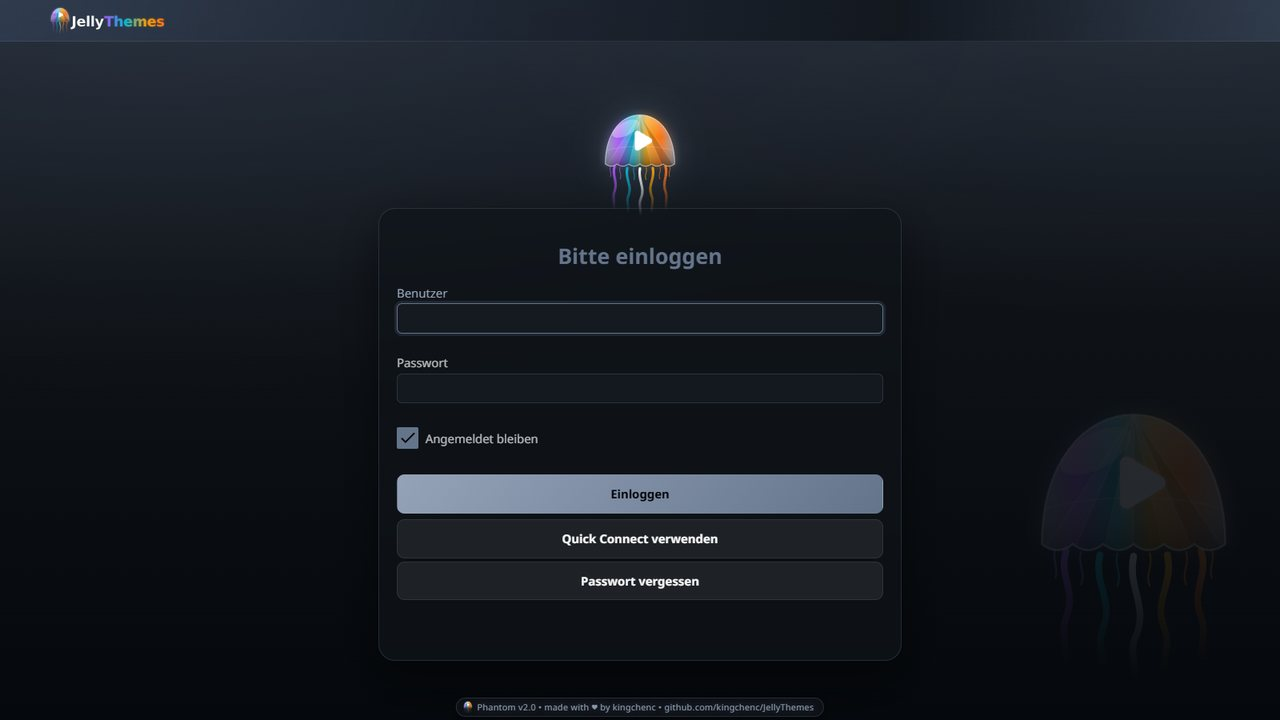
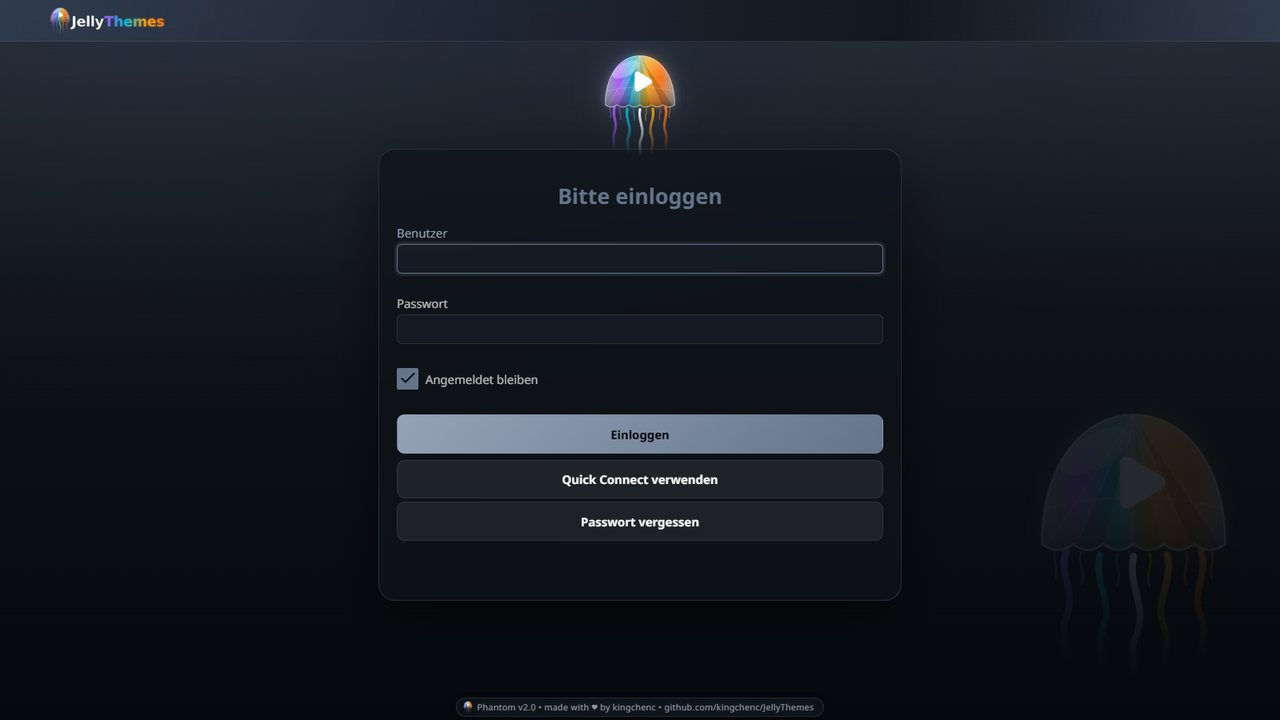
Login page: jellyfish and card higher
Jellyfin keeps room above the login page for its old header; the top
bar has its own space, so the card and the jellyfish move up (about 8%
of the screen on a PC). Login pictures in the galleries updated.

diff --git a/Themes/Ember/Ember.css b/Themes/Ember/Ember.css
@@ -353,10 +353,10 @@ calc(100em * (1 - var(--jt-badge-corner)))}
 .osdTitle,.osdTextContainer{color: var(--jt-text)}
 .upNextDialog-countdownText{color: var(--jt-accent-2)}
 .playstatebutton-icon-played,.ratingbutton-icon-withrating{color: var(--jt-accent-2)}
-#loginPage{background-image: var(--jt-login-bg);background-size: cover;background-position: center}
-#loginPage > .padded-left{position: relative;box-sizing: border-box;width: 100%;max-width: 44em;margin: calc(2em + 7.5em * var(--jt-mascot-login)) auto 2em;padding: 1.5em 1.5em 2em !important;background: rgba(var(--jt-bg-2-rgb), 0.72);-webkit-backdrop-filter: var(--jt-header-backdrop);backdrop-filter: var(--jt-header-backdrop);border: 1px solid var(--jt-accent-line);border-radius: 1.4em;box-shadow: 0 20px 60px rgba(0, 0, 0, 0.5)}
+#loginPage{padding-top: 0.5em !important;background-image: var(--jt-login-bg);background-size: cover;background-position: center}
+#loginPage > .padded-left{position: relative;box-sizing: border-box;width: 100%;max-width: 44em;margin: calc(1em + 7.5em * var(--jt-mascot-login)) auto 2em;padding: 1.5em 1.5em 2em !important;background: rgba(var(--jt-bg-2-rgb), 0.72);-webkit-backdrop-filter: var(--jt-header-backdrop);backdrop-filter: var(--jt-header-backdrop);border: 1px solid var(--jt-accent-line);border-radius: 1.4em;box-shadow: 0 20px 60px rgba(0, 0, 0, 0.5)}
 #loginPage > .padded-left::before{content: "";position: absolute;left: 50%;bottom: 100%;width: 7em;height: calc(9em * var(--jt-mascot-login));margin-left: -3.5em;margin-bottom: -0.6em;background: var(--jt-mascot) center bottom / contain no-repeat;filter: drop-shadow(0 0 18px rgba(var(--jt-accent-rgb), 0.45));pointer-events: none}
-@media all and (max-width: 40em){#loginPage > .padded-left{margin-top: calc(0.4em + 7.2em * var(--jt-mascot-login))}
+@media all and (max-width: 40em){#loginPage > .padded-left{margin-top: calc(1.2em + 7.2em * var(--jt-mascot-login))}
 }
 .docspinner.mdlSpinnerActive{width: 11vh;height: 14vh;margin-left: -5.5vh;margin-top: -7vh;background: var(--jt-mascot) center / contain no-repeat;filter: drop-shadow(0 0 22px rgba(var(--jt-accent-rgb), 0.6));-webkit-animation: jt-float 1.6s ease-in-out infinite;animation: jt-float 1.6s ease-in-out infinite}
 .docspinner.mdlSpinnerActive > .mdl-spinner__layer{display: none}

diff --git a/Themes/Nebula/Nebula.css b/Themes/Nebula/Nebula.css
@@ -353,10 +353,10 @@ calc(100em * (1 - var(--jt-badge-corner)))}
 .osdTitle,.osdTextContainer{color: var(--jt-text)}
 .upNextDialog-countdownText{color: var(--jt-accent-2)}
 .playstatebutton-icon-played,.ratingbutton-icon-withrating{color: var(--jt-accent-2)}
-#loginPage{background-image: var(--jt-login-bg);background-size: cover;background-position: center}
-#loginPage > .padded-left{position: relative;box-sizing: border-box;width: 100%;max-width: 44em;margin: calc(2em + 7.5em * var(--jt-mascot-login)) auto 2em;padding: 1.5em 1.5em 2em !important;background: rgba(var(--jt-bg-2-rgb), 0.72);-webkit-backdrop-filter: var(--jt-header-backdrop);backdrop-filter: var(--jt-header-backdrop);border: 1px solid var(--jt-accent-line);border-radius: 1.4em;box-shadow: 0 20px 60px rgba(0, 0, 0, 0.5)}
+#loginPage{padding-top: 0.5em !important;background-image: var(--jt-login-bg);background-size: cover;background-position: center}
+#loginPage > .padded-left{position: relative;box-sizing: border-box;width: 100%;max-width: 44em;margin: calc(1em + 7.5em * var(--jt-mascot-login)) auto 2em;padding: 1.5em 1.5em 2em !important;background: rgba(var(--jt-bg-2-rgb), 0.72);-webkit-backdrop-filter: var(--jt-header-backdrop);backdrop-filter: var(--jt-header-backdrop);border: 1px solid var(--jt-accent-line);border-radius: 1.4em;box-shadow: 0 20px 60px rgba(0, 0, 0, 0.5)}
 #loginPage > .padded-left::before{content: "";position: absolute;left: 50%;bottom: 100%;width: 7em;height: calc(9em * var(--jt-mascot-login));margin-left: -3.5em;margin-bottom: -0.6em;background: var(--jt-mascot) center bottom / contain no-repeat;filter: drop-shadow(0 0 18px rgba(var(--jt-accent-rgb), 0.45));pointer-events: none}
-@media all and (max-width: 40em){#loginPage > .padded-left{margin-top: calc(0.4em + 7.2em * var(--jt-mascot-login))}
+@media all and (max-width: 40em){#loginPage > .padded-left{margin-top: calc(1.2em + 7.2em * var(--jt-mascot-login))}
 }
 .docspinner.mdlSpinnerActive{width: 11vh;height: 14vh;margin-left: -5.5vh;margin-top: -7vh;background: var(--jt-mascot) center / contain no-repeat;filter: drop-shadow(0 0 22px rgba(var(--jt-accent-rgb), 0.6));-webkit-animation: jt-float 1.6s ease-in-out infinite;animation: jt-float 1.6s ease-in-out infinite}
 .docspinner.mdlSpinnerActive > .mdl-spinner__layer{display: none}

diff --git a/Themes/Obsidian/Obsidian.css b/Themes/Obsidian/Obsidian.css
@@ -353,10 +353,10 @@ calc(100em * (1 - var(--jt-badge-corner)))}
 .osdTitle,.osdTextContainer{color: var(--jt-text)}
 .upNextDialog-countdownText{color: var(--jt-accent-2)}
 .playstatebutton-icon-played,.ratingbutton-icon-withrating{color: var(--jt-accent-2)}
-#loginPage{background-image: var(--jt-login-bg);background-size: cover;background-position: center}
-#loginPage > .padded-left{position: relative;box-sizing: border-box;width: 100%;max-width: 44em;margin: calc(2em + 7.5em * var(--jt-mascot-login)) auto 2em;padding: 1.5em 1.5em 2em !important;background: rgba(var(--jt-bg-2-rgb), 0.72);-webkit-backdrop-filter: var(--jt-header-backdrop);backdrop-filter: var(--jt-header-backdrop);border: 1px solid var(--jt-accent-line);border-radius: 1.4em;box-shadow: 0 20px 60px rgba(0, 0, 0, 0.5)}
+#loginPage{padding-top: 0.5em !important;background-image: var(--jt-login-bg);background-size: cover;background-position: center}
+#loginPage > .padded-left{position: relative;box-sizing: border-box;width: 100%;max-width: 44em;margin: calc(1em + 7.5em * var(--jt-mascot-login)) auto 2em;padding: 1.5em 1.5em 2em !important;background: rgba(var(--jt-bg-2-rgb), 0.72);-webkit-backdrop-filter: var(--jt-header-backdrop);backdrop-filter: var(--jt-header-backdrop);border: 1px solid var(--jt-accent-line);border-radius: 1.4em;box-shadow: 0 20px 60px rgba(0, 0, 0, 0.5)}
 #loginPage > .padded-left::before{content: "";position: absolute;left: 50%;bottom: 100%;width: 7em;height: calc(9em * var(--jt-mascot-login));margin-left: -3.5em;margin-bottom: -0.6em;background: var(--jt-mascot) center bottom / contain no-repeat;filter: drop-shadow(0 0 18px rgba(var(--jt-accent-rgb), 0.45));pointer-events: none}
-@media all and (max-width: 40em){#loginPage > .padded-left{margin-top: calc(0.4em + 7.2em * var(--jt-mascot-login))}
+@media all and (max-width: 40em){#loginPage > .padded-left{margin-top: calc(1.2em + 7.2em * var(--jt-mascot-login))}
 }
 .docspinner.mdlSpinnerActive{width: 11vh;height: 14vh;margin-left: -5.5vh;margin-top: -7vh;background: var(--jt-mascot) center / contain no-repeat;filter: drop-shadow(0 0 22px rgba(var(--jt-accent-rgb), 0.6));-webkit-animation: jt-float 1.6s ease-in-out infinite;animation: jt-float 1.6s ease-in-out infinite}
 .docspinner.mdlSpinnerActive > .mdl-spinner__layer{display: none}

diff --git a/Themes/Phantom/Phantom.css b/Themes/Phantom/Phantom.css
@@ -353,10 +353,10 @@ calc(100em * (1 - var(--jt-badge-corner)))}
 .osdTitle,.osdTextContainer{color: var(--jt-text)}
 .upNextDialog-countdownText{color: var(--jt-accent-2)}
 .playstatebutton-icon-played,.ratingbutton-icon-withrating{color: var(--jt-accent-2)}
-#loginPage{background-image: var(--jt-login-bg);background-size: cover;background-position: center}
-#loginPage > .padded-left{position: relative;box-sizing: border-box;width: 100%;max-width: 44em;margin: calc(2em + 7.5em * var(--jt-mascot-login)) auto 2em;padding: 1.5em 1.5em 2em !important;background: rgba(var(--jt-bg-2-rgb), 0.72);-webkit-backdrop-filter: var(--jt-header-backdrop);backdrop-filter: var(--jt-header-backdrop);border: 1px solid var(--jt-accent-line);border-radius: 1.4em;box-shadow: 0 20px 60px rgba(0, 0, 0, 0.5)}
+#loginPage{padding-top: 0.5em !important;background-image: var(--jt-login-bg);background-size: cover;background-position: center}
+#loginPage > .padded-left{position: relative;box-sizing: border-box;width: 100%;max-width: 44em;margin: calc(1em + 7.5em * var(--jt-mascot-login)) auto 2em;padding: 1.5em 1.5em 2em !important;background: rgba(var(--jt-bg-2-rgb), 0.72);-webkit-backdrop-filter: var(--jt-header-backdrop);backdrop-filter: var(--jt-header-backdrop);border: 1px solid var(--jt-accent-line);border-radius: 1.4em;box-shadow: 0 20px 60px rgba(0, 0, 0, 0.5)}
 #loginPage > .padded-left::before{content: "";position: absolute;left: 50%;bottom: 100%;width: 7em;height: calc(9em * var(--jt-mascot-login));margin-left: -3.5em;margin-bottom: -0.6em;background: var(--jt-mascot) center bottom / contain no-repeat;filter: drop-shadow(0 0 18px rgba(var(--jt-accent-rgb), 0.45));pointer-events: none}
-@media all and (max-width: 40em){#loginPage > .padded-left{margin-top: calc(0.4em + 7.2em * var(--jt-mascot-login))}
+@media all and (max-width: 40em){#loginPage > .padded-left{margin-top: calc(1.2em + 7.2em * var(--jt-mascot-login))}
 }
 .docspinner.mdlSpinnerActive{width: 11vh;height: 14vh;margin-left: -5.5vh;margin-top: -7vh;background: var(--jt-mascot) center / contain no-repeat;filter: drop-shadow(0 0 22px rgba(var(--jt-accent-rgb), 0.6));-webkit-animation: jt-float 1.6s ease-in-out infinite;animation: jt-float 1.6s ease-in-out infinite}
 .docspinner.mdlSpinnerActive > .mdl-spinner__layer{display: none}

diff --git a/Themes/Solaris/Solaris.css b/Themes/Solaris/Solaris.css
@@ -353,10 +353,10 @@ calc(100em * (1 - var(--jt-badge-corner)))}
 .osdTitle,.osdTextContainer{color: var(--jt-text)}
 .upNextDialog-countdownText{color: var(--jt-accent-2)}
 .playstatebutton-icon-played,.ratingbutton-icon-withrating{color: var(--jt-accent-2)}
-#loginPage{background-image: var(--jt-login-bg);background-size: cover;background-position: center}
-#loginPage > .padded-left{position: relative;box-sizing: border-box;width: 100%;max-width: 44em;margin: calc(2em + 7.5em * var(--jt-mascot-login)) auto 2em;padding: 1.5em 1.5em 2em !important;background: rgba(var(--jt-bg-2-rgb), 0.72);-webkit-backdrop-filter: var(--jt-header-backdrop);backdrop-filter: var(--jt-header-backdrop);border: 1px solid var(--jt-accent-line);border-radius: 1.4em;box-shadow: 0 20px 60px rgba(0, 0, 0, 0.5)}
+#loginPage{padding-top: 0.5em !important;background-image: var(--jt-login-bg);background-size: cover;background-position: center}
+#loginPage > .padded-left{position: relative;box-sizing: border-box;width: 100%;max-width: 44em;margin: calc(1em + 7.5em * var(--jt-mascot-login)) auto 2em;padding: 1.5em 1.5em 2em !important;background: rgba(var(--jt-bg-2-rgb), 0.72);-webkit-backdrop-filter: var(--jt-header-backdrop);backdrop-filter: var(--jt-header-backdrop);border: 1px solid var(--jt-accent-line);border-radius: 1.4em;box-shadow: 0 20px 60px rgba(0, 0, 0, 0.5)}
 #loginPage > .padded-left::before{content: "";position: absolute;left: 50%;bottom: 100%;width: 7em;height: calc(9em * var(--jt-mascot-login));margin-left: -3.5em;margin-bottom: -0.6em;background: var(--jt-mascot) center bottom / contain no-repeat;filter: drop-shadow(0 0 18px rgba(var(--jt-accent-rgb), 0.45));pointer-events: none}
-@media all and (max-width: 40em){#loginPage > .padded-left{margin-top: calc(0.4em + 7.2em * var(--jt-mascot-login))}
+@media all and (max-width: 40em){#loginPage > .padded-left{margin-top: calc(1.2em + 7.2em * var(--jt-mascot-login))}
 }
 .docspinner.mdlSpinnerActive{width: 11vh;height: 14vh;margin-left: -5.5vh;margin-top: -7vh;background: var(--jt-mascot) center / contain no-repeat;filter: drop-shadow(0 0 22px rgba(var(--jt-accent-rgb), 0.6));-webkit-animation: jt-float 1.6s ease-in-out infinite;animation: jt-float 1.6s ease-in-out infinite}
 .docspinner.mdlSpinnerActive > .mdl-spinner__layer{display: none}

diff --git a/Themes/Void/Void.css b/Themes/Void/Void.css
@@ -353,10 +353,10 @@ calc(100em * (1 - var(--jt-badge-corner)))}
 .osdTitle,.osdTextContainer{color: var(--jt-text)}
 .upNextDialog-countdownText{color: var(--jt-accent-2)}
 .playstatebutton-icon-played,.ratingbutton-icon-withrating{color: var(--jt-accent-2)}
-#loginPage{background-image: var(--jt-login-bg);background-size: cover;background-position: center}
-#loginPage > .padded-left{position: relative;box-sizing: border-box;width: 100%;max-width: 44em;margin: calc(2em + 7.5em * var(--jt-mascot-login)) auto 2em;padding: 1.5em 1.5em 2em !important;background: rgba(var(--jt-bg-2-rgb), 0.72);-webkit-backdrop-filter: var(--jt-header-backdrop);backdrop-filter: var(--jt-header-backdrop);border: 1px solid var(--jt-accent-line);border-radius: 1.4em;box-shadow: 0 20px 60px rgba(0, 0, 0, 0.5)}
+#loginPage{padding-top: 0.5em !important;background-image: var(--jt-login-bg);background-size: cover;background-position: center}
+#loginPage > .padded-left{position: relative;box-sizing: border-box;width: 100%;max-width: 44em;margin: calc(1em + 7.5em * var(--jt-mascot-login)) auto 2em;padding: 1.5em 1.5em 2em !important;background: rgba(var(--jt-bg-2-rgb), 0.72);-webkit-backdrop-filter: var(--jt-header-backdrop);backdrop-filter: var(--jt-header-backdrop);border: 1px solid var(--jt-accent-line);border-radius: 1.4em;box-shadow: 0 20px 60px rgba(0, 0, 0, 0.5)}
 #loginPage > .padded-left::before{content: "";position: absolute;left: 50%;bottom: 100%;width: 7em;height: calc(9em * var(--jt-mascot-login));margin-left: -3.5em;margin-bottom: -0.6em;background: var(--jt-mascot) center bottom / contain no-repeat;filter: drop-shadow(0 0 18px rgba(var(--jt-accent-rgb), 0.45));pointer-events: none}
-@media all and (max-width: 40em){#loginPage > .padded-left{margin-top: calc(0.4em + 7.2em * var(--jt-mascot-login))}
+@media all and (max-width: 40em){#loginPage > .padded-left{margin-top: calc(1.2em + 7.2em * var(--jt-mascot-login))}
 }
 .docspinner.mdlSpinnerActive{width: 11vh;height: 14vh;margin-left: -5.5vh;margin-top: -7vh;background: var(--jt-mascot) center / contain no-repeat;filter: drop-shadow(0 0 22px rgba(var(--jt-accent-rgb), 0.6));-webkit-animation: jt-float 1.6s ease-in-out infinite;animation: jt-float 1.6s ease-in-out infinite}
 .docspinner.mdlSpinnerActive > .mdl-spinner__layer{display: none}
